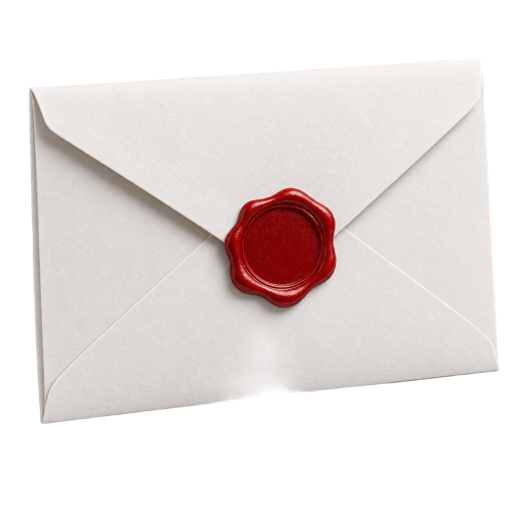
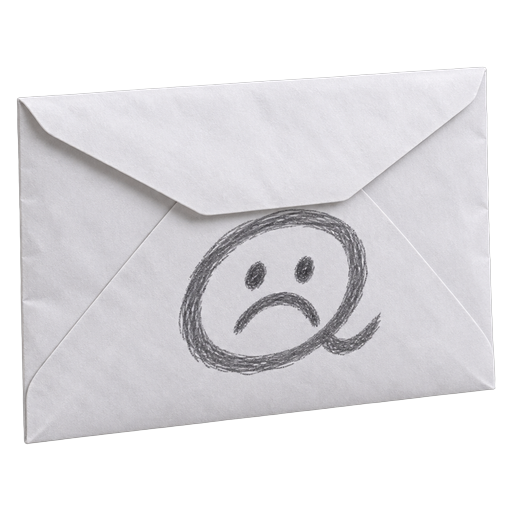
New prize list: 34 terrible gifts
- Gross, useless and passive-aggressive gifts with one punchline each
- 7 new packshots (email, like, checkmark, reference badge, deodorant, recipe, lottery ticket)

diff --git a/vouchers.js b/vouchers.js
@@ -1,58 +1,38 @@
 // Every present = a fake company, a card template and a packshot (assets/packshots/<id>.png, made with Krea).
 // Templates: golden, coupon, dorky, receipt, ticket, raffle, giftcard, spa, official, retro
 window.VOUCHERS = [
-  { id:'beach',      text:'Beach vacation (wifi still sucks)',                        brand:'Sandybum Travel Co.',       tpl:'retro',    fine:'One bar of signal. In the sea. Sunscreen sold separately.', shot:'an inflatable pink flamingo pool float' },
-  { id:'wine',       text:'Unlimited wine (boxed only)',             brand:'Château Cardboard',         tpl:'golden',   fine:'Vintage: last Tuesday. Box may leak.', shot:'a cheap cardboard boxed wine carton with a small plastic tap' },
-  { id:'gym',        text:'Free gym membership (closes tomorrow)',   brand:'PUMPD 24/7*',               tpl:'coupon',   fine:'*24/7 means 2 to 4 pm, 7 days a month.', shot:'a single neon pink vinyl dumbbell' },
-  { id:'lasagna',    text:'Romantic dinner (microwave lasagna)',     brand:'Amore Nuke Kitchen',        tpl:'coupon',   fine:'Serves 2 if you are both not hungry. 4 min on HIGH.', shot:'a frozen microwave lasagna in a plastic tray with film lid' },
-  { id:'stream',     text:'Free Netflix forever (ads included)',                    brand:'StreamFlix+ Ultra',         tpl:'giftcard', fine:'Forever = 30 days. Password shared with your ex.', shot:'a black TV remote control' },
-  { id:'michelin',   text:'Michelin dinner… with your ex',                    brand:'Le Petit Bistro Prétentieux', tpl:'golden', fine:'Portion size: one (1) pea. They\'re bringing their new partner.', shot:'a polished silver restaurant cloche dome on a plate' },
-  { id:'massage',    text:'Three weeks of massage (from Chad in finance)',                  brand:'Kneady Hands Spa',          tpl:'spa',      fine:'Elbows only. He will talk about crypto the whole time.', shot:'an amber glass bottle of massage oil with a dropper' },
-  { id:'spa',        text:'Spa day… at the DMV',                           brand:'Serenity Now Retreat',      tpl:'spa',      fine:'Take a number. You are 847. Now serving: 3.', shot:'a rolled white fluffy towel with two cucumber slices on top' },
-  { id:'sneakers',   text:'Dream sneakers (wrong size)',                     brand:'Kickz Kingdom',             tpl:'ticket',   fine:'Available in size 6½, left foot only.', shot:'a chunky colourful retro running sneaker' },
-  { id:'firstclass', text:'First-class seat (middle row)',                     brand:'AirMaybe',                  tpl:'ticket',   fine:'Between the toilets. No recline. Kid behind you kicks.', shot:'a grey travel neck pillow' },
-  { id:'puppy',      text:'A puppy (already peed)',                     brand:'Paws & Regret Adoptions',   tpl:'dorky',    fine:'Cleaning products sold separately. Puppy not refundable.', shot:'a squeaky rubber dog toy bone, chewed' },
-  { id:'coffee',     text:'Year of free coffee (decaf only)',                     brand:'Bean There Café',           tpl:'coupon',   fine:'One cup per leap year. Oat milk +$4.', shot:'a takeaway paper coffee cup with a plastic lid and cardboard sleeve' },
-  { id:'karaoke',    text:'Private karaoke (with your boss)',                   brand:'MicDrop Lounge',            tpl:'retro',    fine:'Song list: My Heart Will Go On (x40). Attendance mandatory.', shot:'a shiny gold vintage microphone' },
-  { id:'rooftop',    text:'A rooftop party (neighbors invited)',                         brand:'Skyline Social Club',       tpl:'giftcard', fine:'Elevator broken. Music off at 9:15 pm sharp.', shot:'a sparkling mirror disco ball' },
-  { id:'concert',    text:'Concert tickets (back row, no view)',                         brand:'LoudHouse Arena',           tpl:'ticket',   fine:'Pillar included. Band is a tribute act.', shot:'a neon fabric festival wristband' },
-  { id:'expired',    text:'Expired coupon',                          brand:'BargainBarn',               tpl:'coupon',   fine:'Valid until 03/1997. No exceptions. Seriously.', shot:'a pair of red-handled office scissors' },
-  { id:'soap',       text:'Hotel soap (half used)',                  brand:'Grand Hotel Mediocre',      tpl:'golden',   fine:'Gently pre-loved. Hair not included (probably).', shot:'a small worn half-used bar of white hotel soap' },
-  { id:'ice',        text:'Bag of ice (already melted)',             brand:'Frosty\'s Ice Co.',         tpl:'dorky',    fine:'Contents may have changed state during shipping.', shot:'a clear plastic ice bag filled with just water' },
-  { id:'pencil',     text:'Broken pencil',                           brand:'Office Depression Ltd.',    tpl:'official', fine:'Pointless. Sharpener not included.', shot:'a yellow wooden pencil snapped in half' },
-  { id:'dust',       text:'Free dust',                               brand:'DustCo Premium Particles',  tpl:'official', fine:'Hand-collected from under a sofa. Allergens included.', shot:'a small glass jar filled with grey dust bunnies' },
-  { id:'stapler',    text:'Half a stapler',                          brand:'Staple Society',            tpl:'receipt',  fine:'Other half sold separately in 2031.', shot:'half of a red office stapler cut cleanly in two' },
-  { id:'battery',    text:'2% battery',                              brand:'PowerLess Inc.',            tpl:'giftcard', fine:'Charger incompatible with all known devices.', shot:'a red AA battery' },
-  { id:'emptybox',   text:'Empty box',                               brand:'Nothing Inc.',              tpl:'official', fine:'Contains: air (imported). Handle with indifference.', shot:'a small open empty brown cardboard box' },
-  { id:'parking',    text:'Parking ticket',                          brand:'City of Nowhere',           tpl:'official', fine:'Pay within 14 days or within 14 days.', shot:'an orange traffic cone' },
-  { id:'email',      text:'One unread email',                        brand:'Inbox Zero-ish',            tpl:'receipt',  fine:'Subject: "Quick question" (it is not quick).', shot:'a white paper envelope with a red wax seal' },
-  { id:'gum',        text:'Used chewing gum',                        brand:'Chewzy™',                   tpl:'dorky',    fine:'Flavour expired in 2019. Texture: eternal.', shot:'a crumpled silver chewing gum wrapper' },
-  { id:'usb',        text:'Random USB cable',                        brand:'CableDrawer Co.',           tpl:'receipt',  fine:'Fits nothing you own. Will outlive you.', shot:'a tangled white USB cable' },
-  { id:'plant',      text:'Plant (already dead)',                    brand:'Green Thumbs Down Nursery', tpl:'spa',      fine:'Low maintenance. No maintenance. No plant.', shot:'a wilted dead houseplant in a terracotta pot' },
-  { id:'sticker',    text:'"World\'s Okayest" sticker',              brand:'Mid Awards Ltd.',           tpl:'dorky',    fine:'Recognising excellence in adequacy since 1999.', shot:'a small plastic gold participation trophy' },
-  { id:'trial',      text:'Free trial (already expired)',            brand:'TrialWare Pro 98',          tpl:'giftcard', fine:'Your trial ended before you opened this.', shot:'a retro software CD-ROM in a clear jewel case' },
-  { id:'sock',       text:'Lonely sock',                             brand:'SockMatch Bureau',          tpl:'raffle',   fine:'Partner missing since last laundry day.', shot:'a single colourful striped wool sock' },
-  { id:'excel',      text:'Excel spreadsheet',                       brand:'Cellular Joy Ltd.',         tpl:'official', fine:'14,000 rows. All merged cells.', shot:'a beige retro desk calculator' },
-  { id:'lint',       text:'Pocket lint',                             brand:'Lint & Co. Artisanal',      tpl:'golden',   fine:'Small batch. Hand-harvested from jeans.', shot:'a tiny glass apothecary jar holding a ball of fluffy pocket lint' },
-  { id:'advice',     text:'Free advice (unwanted)',                  brand:'Uncle Gary Consulting',     tpl:'receipt',  fine:'Advice may include crypto. Gary is not a doctor.', shot:'a cracked open fortune cookie with a blank paper slip' },
-  { id:'monday',     text:'Monday morning',                          brand:'Alarm Clock Industries',    tpl:'retro',    fine:'Snooze button removed for your convenience.', shot:'a red vintage twin-bell alarm clock' },
-  { id:'tariffs',    text:'Tariffs',                                 brand:'Dept. of Surprise Fees',    tpl:'official', fine:'Fee applies to this voucher. And this sentence.', shot:'a small wooden shipping crate' },
-  { id:'retreat',    text:'Silent retreat (someone snores)',         brand:'Hush Hush Retreats',        tpl:'spa',      fine:'Roommate: Kevin. Kevin snores.', shot:'a pair of orange foam earplugs' },
-  { id:'strangers',  text:'Karaoke with strangers',                  brand:'Off-Key Collective',        tpl:'raffle',   fine:'Duet partner assigned at random. No refunds.', shot:'a red tambourine' },
-  { id:'fame',       text:'10 minutes of fame',                      brand:'Famous-ish Media',          tpl:'golden',   fine:'Timer starts when you read this.', shot:'a gold star-shaped trophy' },
-  { id:'wifi',       text:'All-you-can-scroll WiFi',                 brand:'ScrollNet Unlimited',       tpl:'giftcard', fine:'Speed: 1 bar. Password: on the router (smudged).', shot:'a white home wifi router with antennas' },
-  { id:'zoom',       text:'A Zoom-free Monday',                      brand:'Mute Button Corp.',         tpl:'coupon',   fine:'Except the 9 am. And the 9:30. And the sync.', shot:'a small webcam with a yellow sticky note covering the lens' },
-  { id:'playlist',   text:'Your ex\'s playlist',                     brand:'Sad Tapes Records',         tpl:'retro',    fine:'Track 7 is just them breathing.', shot:'a retro audio cassette tape' },
-  { id:'breakfast',  text:'Breakfast in bed (served by yourself)',   brand:'Self-Serve Suites',         tpl:'coupon',   fine:'Crumbs are complimentary.', shot:'a wooden breakfast tray with toast, an egg and orange juice' },
-  { id:'therapy',    text:'A free therapy session (DIY)',            brand:'Feelings Depot',            tpl:'dorky',    fine:'Talk to the duck. The duck is listening.', shot:'a yellow rubber duck' },
-  { id:'cruise',     text:'Boat cruise (seasick guarantee)',         brand:'Queasy Seas Cruises',       tpl:'ticket',   fine:'Bucket provided. Buffet closes at sea.', shot:'a red and white life ring buoy' },
-  { id:'nodrama',    text:'One drama-free week',                     brand:'Calm Down Co.',             tpl:'spa',      fine:'Void if group chat is active.', shot:'a lavender scented candle in a glass jar' },
-  { id:'eyeroll',    text:'Lifetime supply of eye rolls',            brand:'Eyeroll Emporium',          tpl:'raffle',   fine:'Refills automatic. Side effects: sighing.', shot:'a blister pack of googly eyes' },
-  { id:'sidequest',  text:'Random side quest unlocked',              brand:'Quest Giver Guild',         tpl:'retro',    fine:'Reward: 3 XP and a rusty spoon.', shot:'a small wooden treasure chest with gold trim' },
-  { id:'couch',      text:'All-inclusive trip to… your couch',       brand:'Sofa So Good Travel',       tpl:'ticket',   fine:'Departure: whenever. Snacks: whatever is left in the cupboard.', shot:'a worn beige sofa cushion with crumbs and a TV remote on top' },
-  { id:'champagne',  text:'Champagne, but warm',                     brand:'Maison Tiède',              tpl:'golden',   fine:'Served at room temperature. Your room. In August.', shot:'a champagne bottle in an empty ice bucket' },
-  { id:'headphones', text:'Noise-canceling headphones (don\'t work on family)', brand:'HushTech Pro',  tpl:'giftcard', fine:'Also don\'t work on the neighbour\'s drill.', shot:'matte black over-ear noise-cancelling headphones' },
-  { id:'paperclip',  text:'Single paperclip',                        brand:'Clippy Supplies Co.',       tpl:'coupon',   fine:'Limit one per customer. Bend responsibly.', shot:'a single silver paperclip' },
-  { id:'receipt',    text:'A receipt (not yours)',                   brand:'Somebody Else Ltd.',        tpl:'receipt',  fine:'Purchased by: Kevin. Returns: Kevin only.', shot:'a crumpled thermal shopping receipt' },
-  { id:'key',        text:'Mystery key (to nothing)',                brand:'Locksmith of Nowhere',      tpl:'golden',   fine:'Fits no known door. Keep it forever anyway.', shot:'an antique brass skeleton key' },
+  { id:'email', text:'A brand-new email account', brand:'Gmeh Mail', tpl:'official', fine:'Username: yourname4738291. All the good ones were taken in 2004.', shot:'a cheap white paper envelope with a sad hand-drawn @ symbol on it' },
+  { id:'insta', text:'One (1) like on your lame Instagram post', brand:'InstaPity', tpl:'giftcard', fine:'Delivered at 3am by your mom. Unliked by 3:05.', shot:'a single glossy pink 3D heart-shaped notification badge with the number 1' },
+  { id:'checkmark', text:'Certified checkmark (verified nobody)', brand:'X-tremely Verified Co.', tpl:'golden', fine:'$8/month to prove you\'re you. Nobody asked.', shot:'a cheap plastic blue verified checkmark badge on a small plastic display stand' },
+  { id:'linkedin', text:'LinkedIn reference post', brand:'LinkedOut', tpl:'official', fine:'"Was in the same building as them once. Great energy. 4/10."', shot:'a cheap printed business reference card with a lanyard' },
+  { id:'retreat', text:'Used earplugs', brand:'Hush Hush Retreats', tpl:'spa', fine:'Previous owner slept great. You won\'t.', shot:'a pair of orange foam earplugs' },
+  { id:'deo', text:'Half-used roll-on deodorant', brand:'Pitstop Fresh™', tpl:'coupon', fine:'Still warm. Previous armpit sends regards.', shot:'a half-used roll-on deodorant stick with the cap off' },
+  { id:'recipe', text:'Granny\'s secret cake recipe', brand:'Nana\'s Lies Bakery', tpl:'retro', fine:'Step 4: "a bit of flour, you\'ll know." You won\'t know.', shot:'a stained handwritten vintage recipe index card' },
+  { id:'lottery', text:'Last year\'s lottery ticket (used)', brand:'Almost Rich Lotto', tpl:'raffle', fine:'Missed by every number. Scratch again for emotional damage.', shot:'a crumpled scratched-off lottery scratch card ticket' },
+  { id:'gum', text:'Pre-chewed gum', brand:'Chewzy™', tpl:'dorky', fine:'Flavour removed for your convenience.', shot:'a crumpled silver chewing gum wrapper' },
+  { id:'soap', text:'Half-used hotel soap', brand:'Grand Hotel Mediocre', tpl:'golden', fine:'Already broken in. One pube included.', shot:'a small worn half-used bar of white hotel soap' },
+  { id:'sock', text:'Lonely sock', brand:'SockMatch Bureau', tpl:'raffle', fine:'Partner missing since last laundry day.', shot:'a single colourful striped wool sock' },
+  { id:'ice', text:'Bag of ice (already melted)', brand:'Frosty\'s Ice Co.', tpl:'dorky', fine:'Contents may have changed state during shipping.', shot:'a clear plastic ice bag filled with just water' },
+  { id:'firstclass', text:'Neck pillow (lightly drooled on)', brand:'AirMaybe', tpl:'ticket', fine:'Smells like a 14-hour flight and regret.', shot:'a grey travel neck pillow' },
+  { id:'plant', text:'Dead houseplant', brand:'Green Thumbs Down Nursery', tpl:'spa', fine:'It was alive when we bought it. Kind of.', shot:'a wilted dead houseplant in a terracotta pot' },
+  { id:'usb', text:'Tangled random USB cable', brand:'CableDrawer Co.', tpl:'receipt', fine:'Fits nothing you own. Will outlive you.', shot:'a tangled white USB cable' },
+  { id:'stapler', text:'Half a stapler', brand:'Staple Society', tpl:'receipt', fine:'The other half is at your ex\'s.', shot:'half of a red office stapler cut cleanly in two' },
+  { id:'pencil', text:'Broken pencil', brand:'Office Depression Ltd.', tpl:'official', fine:'Pointless. Like this gift.', shot:'a yellow wooden pencil snapped in half' },
+  { id:'parking', text:'Traffic cone (stolen)', brand:'City of Nowhere', tpl:'official', fine:'Police have not been informed yet.', shot:'an orange traffic cone' },
+  { id:'puppy', text:'Chewed dog toy', brand:'Paws & Regret Co.', tpl:'dorky', fine:'The dog has rejected it. Now it\'s yours.', shot:'a squeaky rubber dog toy bone, chewed' },
+  { id:'champagne', text:'Warm champagne, already opened', brand:'Maison Tiède', tpl:'golden', fine:'Flat since New Year\'s. Which one? Yes.', shot:'a champagne bottle in an empty ice bucket' },
+  { id:'expired', text:'Expired coupon', brand:'BargainBarn', tpl:'coupon', fine:'Expired the second you looked at it.', shot:'a pair of red-handled office scissors' },
+  { id:'receipt', text:'Someone else\'s receipt', brand:'Somebody Else Ltd.', tpl:'receipt', fine:'1x hemorrhoid cream. They paid cash.', shot:'a crumpled thermal shopping receipt' },
+  { id:'lasagna', text:'Romantic dinner (microwave lasagna)', brand:'Amore Nuke Kitchen', tpl:'coupon', fine:'Serves 2 if you are both not hungry. 4 min on HIGH.', shot:'a frozen microwave lasagna in a plastic tray with film lid' },
+  { id:'michelin', text:'Michelin dinner… with your ex', brand:'Le Petit Bistro Prétentieux', tpl:'golden', fine:'Portion size: one (1) pea. They\'re bringing their new partner.', shot:'a polished silver restaurant cloche dome on a plate' },
+  { id:'massage', text:'Three weeks of massage (from Chad in finance)', brand:'Kneady Hands Spa', tpl:'spa', fine:'Elbows only. He will talk about crypto the whole time.', shot:'an amber glass bottle of massage oil with a dropper' },
+  { id:'sneakers', text:'Dream sneakers (wrong size)', brand:'Kickz Kingdom', tpl:'ticket', fine:'Available in size 6½, left foot only.', shot:'a chunky colourful retro running sneaker' },
+  { id:'trial', text:'Free trial (already expired)', brand:'TrialWare Pro 98', tpl:'giftcard', fine:'Your trial ended before you opened this.', shot:'a retro software CD-ROM in a clear jewel case' },
+  { id:'advice', text:'Free advice (unwanted)', brand:'Uncle Gary Consulting', tpl:'receipt', fine:'Advice may include crypto. Gary is not a doctor.', shot:'a cracked open fortune cookie with a blank paper slip' },
+  { id:'fame', text:'10 minutes of fame', brand:'Famous-ish Media', tpl:'golden', fine:'Timer starts when you read this.', shot:'a gold star-shaped trophy' },
+  { id:'wifi', text:'All-you-can-scroll WiFi', brand:'ScrollNet Unlimited', tpl:'giftcard', fine:'Speed: 1 bar. Password: on the router (smudged).', shot:'a white home wifi router with antennas' },
+  { id:'zoom', text:'A Zoom-free Monday', brand:'Mute Button Corp.', tpl:'coupon', fine:'Except the 9 am. And the 9:30. And the sync.', shot:'a small webcam with a yellow sticky note covering the lens' },
+  { id:'breakfast', text:'Breakfast in bed (served by yourself)', brand:'Self-Serve Suites', tpl:'coupon', fine:'Crumbs are complimentary.', shot:'a wooden breakfast tray with toast, an egg and orange juice' },
+  { id:'therapy', text:'A free therapy session (DIY)', brand:'Feelings Depot', tpl:'dorky', fine:'Talk to the duck. The duck is listening.', shot:'a yellow rubber duck' },
+  { id:'key', text:'Mystery key (to nothing)', brand:'Locksmith of Nowhere', tpl:'golden', fine:'Fits no known door. Keep it forever anyway.', shot:'an antique brass skeleton key' },
 ];
